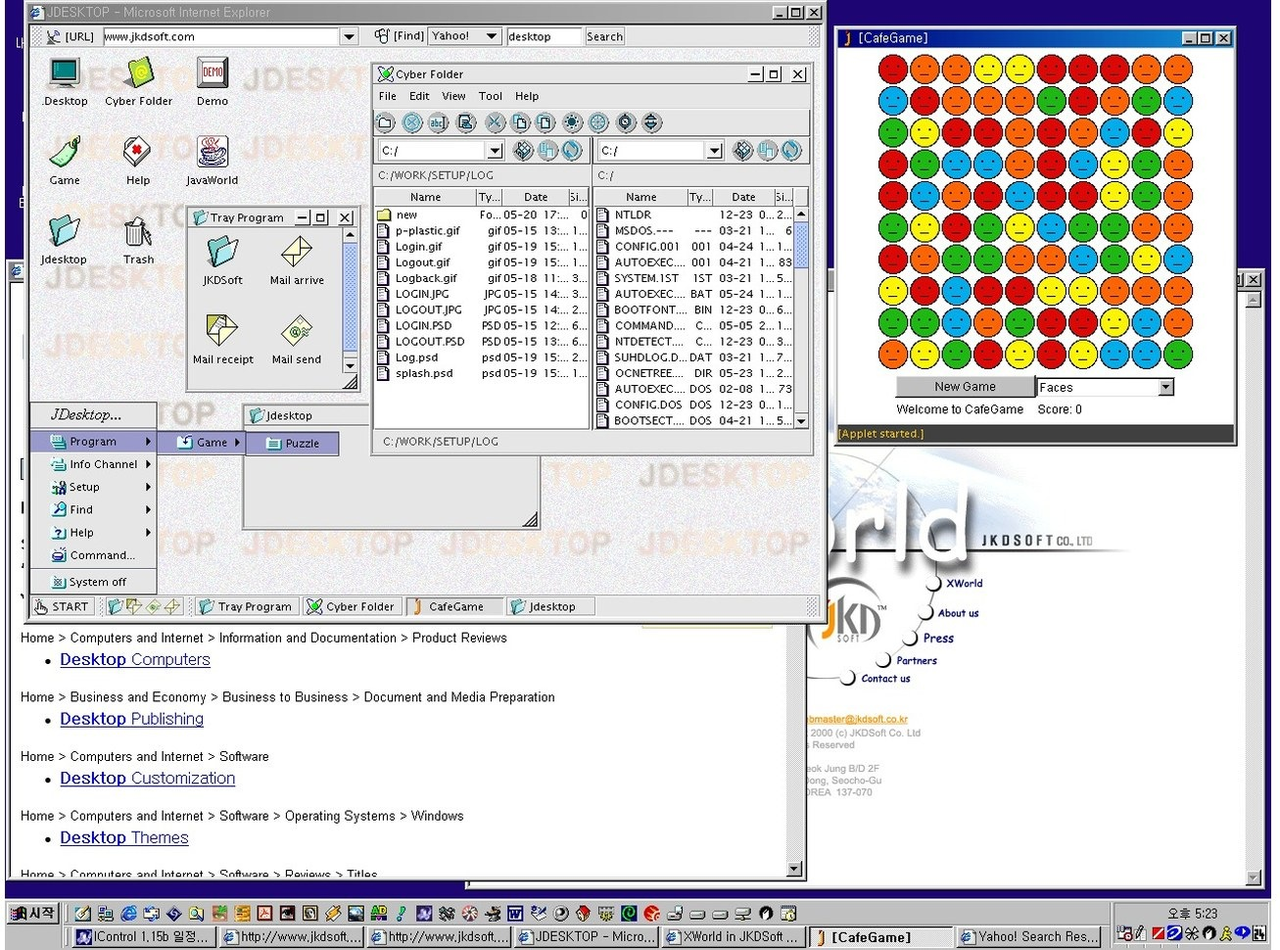
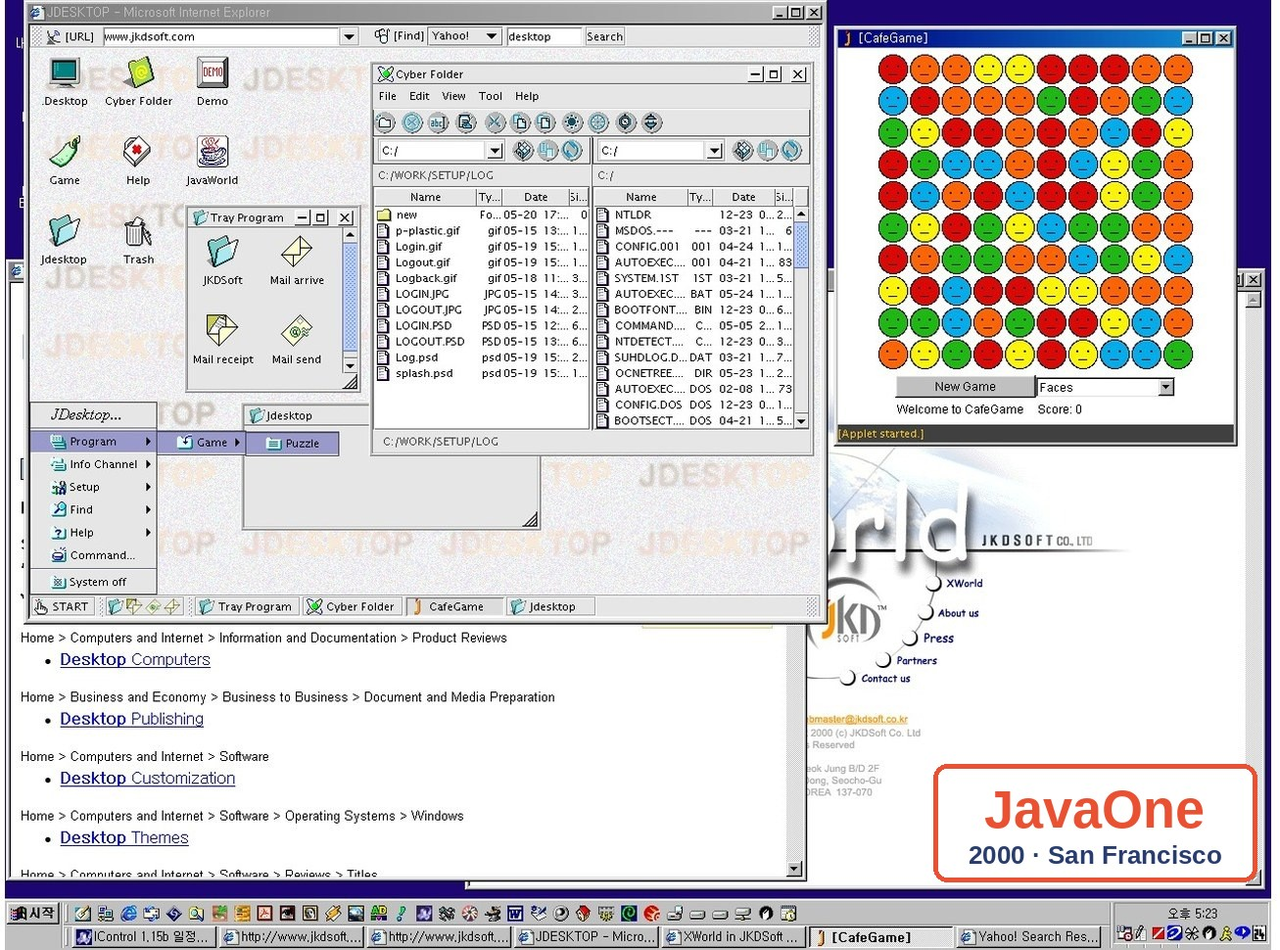
career: #001 JavaOne 표기 삽입
Claude-Session: https://claude.ai/code/session_012qSBL5TqsRWVrwA415UfBv

Changed region(s): [[0.7039, 0.8041, 1.0, 0.9278]]

diff --git a/ru/career.html b/ru/career.html
@@ -70,7 +70,7 @@ function natBox(t,tabs,sets,c){var b='<div class="igc" id="natb"><h3>'+t+'</h3><
 function lineC(t,n,d,c){var W=460,H=230,L=30,B=24,T=10,R=16,mx=0;d.forEach(function(s){s.forEach(function(v){if(v>mx)mx=v})});mx=Math.ceil(mx/20)*20;var X=function(i){return L+(W-L-R)*i/24},Y=function(v){return H-B-(H-B-T)*v/mx};var g='';for(var k=0;k<=4;k++){var v=mx*k/4;g+='<line x1="'+L+'" x2="'+(W-R)+'" y1="'+Y(v)+'" y2="'+Y(v)+'" stroke="#E6E8F0"/><text x="'+(L-4)+'" y="'+(Y(v)+3)+'" font-size="9" text-anchor="end" fill="#7A8099">'+v+'</text>'}for(var y=0;y<=24;y+=4)g+='<text x="'+X(y)+'" y="'+(H-8)+'" font-size="9" text-anchor="middle" fill="#7A8099">'+(2000+y)+'</text>';d.forEach(function(s,j){g+='<polyline fill="none" stroke="'+c[j]+'" stroke-width="2" points="'+s.map(function(v,i){return X(i)+','+Y(v)}).join(' ')+'"/>'});var lg=n.map(function(x,j){return '<span style="display:inline-flex;align-items:center;gap:4px;margin:0 10px 4px 0;font-size:12px"><i style="width:12px;height:3px;background:'+c[j]+';display:inline-block"></i>'+x+'</span>'}).join('');return '<div class="igc"><h3>'+t+'</h3><div>'+lg+'</div><svg viewBox="0 0 '+W+' '+H+'" style="width:100%;height:auto;display:block" role="img" aria-label="'+t+'">'+g+'</svg></div>'}
 document.getElementById('ig').innerHTML=bars(T.role,T.r,(function(){var h=function(a){return RO.filter(function(x){return a.some(function(k){return x.indexOf(RL[k])>=0})}).length};return [h([0,1]),h([6,7]),r[2],h([2,3]),h([4,5]),M.filter(function(m){return m[2]}).length+r[3]]})())+bars(T.cli,T.c,c)+bars(T.reg,T.g,g)+bars(T.per,yl,yc)+bars("2 029 проектов и задач с 2000 года · 50 698 рабочих документов · 629 ГБ",["Neighbor System (2008–2015)", "AWA, AKT, Elsol, SeAH, SGA, ANJ и др. (2015–2021)", "Donghae Engineering (2019–2020)", "ITeyes (2022)", "KCC I&C (2020–2021)", "Korea Firstec (2023–2024)","Next Core Technology (2023)", "Seowon Group (2024)", "2000–2007 (по послужному списку)"],[451, 200, 162, 117, 103, 62, 35, 4, 26])+lineC("Проекты и задачи по годам (2000–2024, по типу заказчика)",["Правительство", "Госорганизации", "Местные органы", "Частный сектор", "За рубежом"],[[0, 0, 0, 0, 0, 0, 0, 0, 13, 0, 0, 0, 0, 1, 1, 3, 0, 0, 3, 33, 7, 2, 5, 2, 60], [0, 0, 0, 0, 0, 0, 0, 0, 18, 3, 2, 12, 5, 2, 55, 1, 0, 0, 104, 55, 40, 11, 78, 34, 1], [0, 0, 0, 0, 0, 0, 0, 0, 29, 4, 7, 11, 6, 2, 0, 3, 0, 0, 41, 15, 49, 17, 8, 1, 0], [4, 5, 3, 1, 2, 5, 2, 2, 88, 30, 16, 74, 17, 1, 15, 40, 4, 1, 1, 12, 35, 5, 26, 0, 3], [0, 1, 0, 0, 0, 1, 0, 0, 0, 0, 0, 0, 0, 4, 7, 4, 0, 0, 0, 6, 1, 0, 0, 0, 0]],["#1B2A6B", "#2343D7", "#088CF5", "#7711FC", "#E0559A"])+natBox("Динамика по характеру (2000–2024)",["Заказчик", "Направление", "Роль"],[[["Частный сектор", "Госсектор", "Зарубежье"], [[4, 6, 5, 5, 3, 7, 5, 2, 5, 0, 0, 1, 7, 3, 1, 2, 3, 0, 0, 0, 0, 2, 2, 0, 0], [0, 0, 0, 0, 0, 0, 0, 0, 2, 3, 3, 6, 2, 7, 4, 1, 1, 0, 2, 4, 6, 5, 11, 1, 1], [1, 0, 0, 1, 1, 1, 1, 0, 0, 0, 0, 0, 2, 2, 2, 1, 0, 0, 0, 1, 1, 1, 0, 0, 0]]], [["Транспорт·ITS", "Здравоохранение", "Большие данные", "ИИ", "Умный город", "MyData", "Финансы"], [[0, 0, 0, 0, 0, 0, 0, 0, 1, 3, 3, 6, 3, 3, 2, 0, 0, 0, 0, 3, 4, 3, 0, 0, 0], [0, 0, 0, 0, 0, 0, 0, 0, 0, 0, 0, 0, 1, 0, 0, 0, 0, 0, 0, 0, 0, 2, 9, 0, 0], [0, 0, 0, 0, 0, 0, 0, 0, 0, 0, 0, 0, 1, 1, 2, 1, 0, 0, 0, 1, 2, 1, 3, 0, 0], [0, 0, 0, 0, 0, 0, 0, 0, 0, 0, 0, 0, 0, 0, 0, 0, 0, 0, 1, 2, 2, 1, 2, 0, 1], [0, 0, 0, 0, 0, 0, 0, 0, 0, 0, 0, 0, 1, 1, 1, 1, 1, 0, 0, 0, 1, 1, 0, 0, 0], [0, 0, 0, 0, 0, 0, 0, 0, 0, 0, 0, 0, 0, 0, 0, 0, 0, 0, 0, 0, 0, 0, 3, 0, 0], [0, 0, 0, 0, 0, 0, 0, 0, 1, 0, 0, 0, 0, 0, 0, 0, 0, 1, 0, 0, 0, 1, 0, 1, 0]]], [["Руководство", "Продажи", "PM·PMO", "PL", "Разработка/исполнение", "Предложение·планирование"], [[0, 0, 0, 0, 0, 0, 0, 0, 0, 0, 0, 1, 2, 1, 0, 0, 0, 0, 2, 4, 0, 0, 0, 0, 0], [0, 0, 0, 0, 0, 0, 0, 0, 0, 0, 0, 1, 4, 1, 0, 0, 0, 0, 1, 2, 0, 0, 0, 0, 0], [3, 3, 1, 1, 0, 1, 0, 0, 0, 1, 0, 1, 5, 2, 1, 1, 1, 0, 2, 4, 1, 1, 10, 0, 1], [0, 2, 2, 0, 1, 5, 2, 2, 4, 0, 2, 0, 1, 4, 2, 0, 1, 1, 0, 0, 0, 6, 3, 0, 0], [0, 0, 0, 0, 0, 0, 0, 0, 0, 1, 1, 0, 0, 2, 3, 0, 2, 1, 0, 0, 0, 0, 3, 0, 0], [3, 5, 3, 1, 1, 5, 2, 2, 7, 1, 0, 5, 5, 9, 1, 1, 0, 1, 1, 3, 2, 8, 10, 2, 0]]]],["#1B2A6B", "#2343D7", "#088CF5", "#7711FC", "#E0559A", "#2BB673", "#F2A900", "#9AA0B4"]);
 var PAL=[['#088CF5','#2343D7'],['#2343D7','#7711FC'],['#4A86DB','#9CC9EF'],['#7711FC','#088CF5']];
-var IMG=["p0", "n_nexco", "n_gjbank", "p3y", "n_gugusz", "n_cloud", "p1z", "n_kbizz", "p2b", "n_jinmoz", "b_bioz", "n_jibangz", "e_myd88", "e_kmc", "n_cjwz", "p85c", "n_uzbz", "b_kukdoz", "p82c", "n_gnitsz", "p80c", "p79c", "p5b", "p4z", "p76c", "p6z", "p7z", "p8z", "p9z", "p10", "p11z", "p12", "p13z", "p14b", "p66c", "p16", "p64c", "n_arvrz", "p17z", "e_sgis_svc", "e_sgis_menu", "n_mesz", "n_litz", "p19z", "n_lwtlbsz", "n_kogasz", "b_kacz", "b_flowz", "p20z", "n_hanle", "n_gitsz", "p49c", "p48c", "p24z", "n_gcrmz", "p45c", "p23z", "p22z", "p21z", "n_ssangz", "n_exjz", "n_bsgd", "n_nyjbisz", "p25z", "p36c", "e_gio35", "p26z", "e_wc33", "n_brtz", "p27z", "b_nbisz", "e_3d60z", "b_smoneyz", "b_cowayz", "b_ph3dz", "e_son25", "e_boomz", "e_pcs1z", "b_fota", "b_smsz", "e_pcs2b", "b_pmp", "b_homez", "b_cmz", "b_mmcz", "d_phone", "c_iso_m", "b_wooferz", "d_2g_ui", "b_printerz", "d_dv_ui", "b_nexioz", "d_stb_sk", "d_stb_arion", "e_tcoin6", "d_auctionz", "d_sec_gui", "e_hanc3", "d_search", "e_java1"];function art(i){if(IMG[i])return '<img class="art" src="/assets/img/proj/'+IMG[i]+'.jpg" alt="" loading="lazy" style="object-fit:cover;object-position:center top">';var p=PAL[i%4],s='',k;for(k=0;k<6;k++){var x=(i*37+k*53)%150,y=(i*29+k*31)%96,rr=10+(i*7+k*11)%26;s+='<circle cx="'+x+'" cy="'+y+'" r="'+rr+'" fill="none" stroke="#fff" stroke-opacity=".55" stroke-width="1.2"/>'}
+var IMG=["p0", "n_nexco", "n_gjbank", "p3y", "n_gugusz", "n_cloud", "p1z", "n_kbizz", "p2b", "n_jinmoz", "b_bioz", "n_jibangz", "e_myd88", "e_kmc", "n_cjwz", "p85c", "n_uzbz", "b_kukdoz", "p82c", "n_gnitsz", "p80c", "p79c", "p5b", "p4z", "p76c", "p6z", "p7z", "p8z", "p9z", "p10", "p11z", "p12", "p13z", "p14b", "p66c", "p16", "p64c", "n_arvrz", "p17z", "e_sgis_svc", "e_sgis_menu", "n_mesz", "n_litz", "p19z", "n_lwtlbsz", "n_kogasz", "b_kacz", "b_flowz", "p20z", "n_hanle", "n_gitsz", "p49c", "p48c", "p24z", "n_gcrmz", "p45c", "p23z", "p22z", "p21z", "n_ssangz", "n_exjz", "n_bsgd", "n_nyjbisz", "p25z", "p36c", "e_gio35", "p26z", "e_wc33", "n_brtz", "p27z", "b_nbisz", "e_3d60z", "b_smoneyz", "b_cowayz", "b_ph3dz", "e_son25", "e_boomz", "e_pcs1z", "b_fota", "b_smsz", "e_pcs2b", "b_pmp", "b_homez", "b_cmz", "b_mmcz", "d_phone", "c_iso_m", "b_wooferz", "d_2g_ui", "b_printerz", "d_dv_ui", "b_nexioz", "d_stb_sk", "d_stb_arion", "e_tcoin6", "d_auctionz", "d_sec_gui", "e_hanc3", "d_search", "p1c"];function art(i){if(IMG[i])return '<img class="art" src="/assets/img/proj/'+IMG[i]+'.jpg" alt="" loading="lazy" style="object-fit:cover;object-position:center top">';var p=PAL[i%4],s='',k;for(k=0;k<6;k++){var x=(i*37+k*53)%150,y=(i*29+k*31)%96,rr=10+(i*7+k*11)%26;s+='<circle cx="'+x+'" cy="'+y+'" r="'+rr+'" fill="none" stroke="#fff" stroke-opacity=".55" stroke-width="1.2"/>'}
 for(k=0;k<4;k++){s+='<line x1="0" y1="'+(18+k*20)+'" x2="150" y2="'+(10+((i+k)*17)%80)+'" stroke="#fff" stroke-opacity=".3"/>'}
 return '<svg class="art" viewBox="0 0 150 96" aria-hidden="true"><defs><linearGradient id="g'+i+'" x1="0" y1="0" x2="1" y2="1"><stop offset="0" stop-color="'+p[0]+'"/><stop offset="1" stop-color="'+p[1]+'"/></linearGradient></defs><rect width="150" height="96" fill="url(#g'+i+')"/>'+s+'</svg>'}
 var HL=Array.prototype.slice.call(document.querySelectorAll('#ft .fc'));var mini=[];

diff --git a/career.html b/career.html
@@ -70,7 +70,7 @@ function natBox(t,tabs,sets,c){var b='<div class="igc" id="natb"><h3>'+t+'</h3><
 function lineC(t,n,d,c){var W=460,H=230,L=30,B=24,T=10,R=16,mx=0;d.forEach(function(s){s.forEach(function(v){if(v>mx)mx=v})});mx=Math.ceil(mx/20)*20;var X=function(i){return L+(W-L-R)*i/24},Y=function(v){return H-B-(H-B-T)*v/mx};var g='';for(var k=0;k<=4;k++){var v=mx*k/4;g+='<line x1="'+L+'" x2="'+(W-R)+'" y1="'+Y(v)+'" y2="'+Y(v)+'" stroke="#E6E8F0"/><text x="'+(L-4)+'" y="'+(Y(v)+3)+'" font-size="9" text-anchor="end" fill="#7A8099">'+v+'</text>'}for(var y=0;y<=24;y+=4)g+='<text x="'+X(y)+'" y="'+(H-8)+'" font-size="9" text-anchor="middle" fill="#7A8099">'+(2000+y)+'</text>';d.forEach(function(s,j){g+='<polyline fill="none" stroke="'+c[j]+'" stroke-width="2" points="'+s.map(function(v,i){return X(i)+','+Y(v)}).join(' ')+'"/>'});var lg=n.map(function(x,j){return '<span style="display:inline-flex;align-items:center;gap:4px;margin:0 10px 4px 0;font-size:12px"><i style="width:12px;height:3px;background:'+c[j]+';display:inline-block"></i>'+x+'</span>'}).join('');return '<div class="igc"><h3>'+t+'</h3><div>'+lg+'</div><svg viewBox="0 0 '+W+' '+H+'" style="width:100%;height:auto;display:block" role="img" aria-label="'+t+'">'+g+'</svg></div>'}
 document.getElementById('ig').innerHTML=bars(T.role,T.r,(function(){var h=function(a){return RO.filter(function(x){return a.some(function(k){return x.indexOf(RL[k])>=0})}).length};return [h([0,1]),h([6,7]),r[2],h([2,3]),h([4,5]),M.filter(function(m){return m[2]}).length+r[3]]})())+bars(T.cli,T.c,c)+bars(T.reg,T.g,g)+bars(T.per,yl,yc)+bars("2000년 이후 수행·참여 사업·과업 2,029건 · 업무 문서 50,698개 · 자료 629GB",["네이버시스템(2008–2015)", "AWA·AKT·엘솔·세아·SGA·ANJ 외(2015–2021)", "동해종합기술공사(2019–2020)", "아이티아이즈(2022)", "KCC정보통신(2020–2021)", "코리아퍼스텍(2023–2024)","넥스트코어테크놀로지(2023)", "서원그룹(2024)", "2000–2007(경력기술서 기준)"],[451, 200, 162, 117, 103, 62, 35, 4, 26])+lineC("연도별 사업·과업 추이(2000–2024, 발주 대상별)",["정부", "공공기관", "지자체", "민간", "해외"],[[0, 0, 0, 0, 0, 0, 0, 0, 13, 0, 0, 0, 0, 1, 1, 3, 0, 0, 3, 33, 7, 2, 5, 2, 60], [0, 0, 0, 0, 0, 0, 0, 0, 18, 3, 2, 12, 5, 2, 55, 1, 0, 0, 104, 55, 40, 11, 78, 34, 1], [0, 0, 0, 0, 0, 0, 0, 0, 29, 4, 7, 11, 6, 2, 0, 3, 0, 0, 41, 15, 49, 17, 8, 1, 0], [4, 5, 3, 1, 2, 5, 2, 2, 88, 30, 16, 74, 17, 1, 15, 40, 4, 1, 1, 12, 35, 5, 26, 0, 3], [0, 1, 0, 0, 0, 1, 0, 0, 0, 0, 0, 0, 0, 4, 7, 4, 0, 0, 0, 6, 1, 0, 0, 0, 0]],["#1B2A6B", "#2343D7", "#088CF5", "#7711FC", "#E0559A"])+natBox("성격별 연도 추이(2000–2024)",["대상", "분야", "역할"],[[["민간", "공공", "해외"], [[4, 6, 5, 5, 3, 7, 5, 2, 5, 0, 0, 1, 7, 3, 1, 2, 3, 0, 0, 0, 0, 2, 2, 0, 0], [0, 0, 0, 0, 0, 0, 0, 0, 2, 3, 3, 6, 2, 7, 4, 1, 1, 0, 2, 4, 6, 5, 11, 1, 1], [1, 0, 0, 1, 1, 1, 1, 0, 0, 0, 0, 0, 2, 2, 2, 1, 0, 0, 0, 1, 1, 1, 0, 0, 0]]], [["교통·ITS", "의료", "빅데이터", "AI", "스마트시티", "마이데이터", "금융"], [[0, 0, 0, 0, 0, 0, 0, 0, 1, 3, 3, 6, 3, 3, 2, 0, 0, 0, 0, 3, 4, 3, 0, 0, 0], [0, 0, 0, 0, 0, 0, 0, 0, 0, 0, 0, 0, 1, 0, 0, 0, 0, 0, 0, 0, 0, 2, 9, 0, 0], [0, 0, 0, 0, 0, 0, 0, 0, 0, 0, 0, 0, 1, 1, 2, 1, 0, 0, 0, 1, 2, 1, 3, 0, 0], [0, 0, 0, 0, 0, 0, 0, 0, 0, 0, 0, 0, 0, 0, 0, 0, 0, 0, 1, 2, 2, 1, 2, 0, 1], [0, 0, 0, 0, 0, 0, 0, 0, 0, 0, 0, 0, 1, 1, 1, 1, 1, 0, 0, 0, 1, 1, 0, 0, 0], [0, 0, 0, 0, 0, 0, 0, 0, 0, 0, 0, 0, 0, 0, 0, 0, 0, 0, 0, 0, 0, 0, 3, 0, 0], [0, 0, 0, 0, 0, 0, 0, 0, 1, 0, 0, 0, 0, 0, 0, 0, 0, 1, 0, 0, 0, 1, 0, 1, 0]]], [["사업총괄", "영업", "PM·PMO", "PL", "개발/수행", "제안·기획"], [[0, 0, 0, 0, 0, 0, 0, 0, 0, 0, 0, 1, 2, 1, 0, 0, 0, 0, 2, 4, 0, 0, 0, 0, 0], [0, 0, 0, 0, 0, 0, 0, 0, 0, 0, 0, 1, 4, 1, 0, 0, 0, 0, 1, 2, 0, 0, 0, 0, 0], [3, 3, 1, 1, 0, 1, 0, 0, 0, 1, 0, 1, 5, 2, 1, 1, 1, 0, 2, 4, 1, 1, 10, 0, 1], [0, 2, 2, 0, 1, 5, 2, 2, 4, 0, 2, 0, 1, 4, 2, 0, 1, 1, 0, 0, 0, 6, 3, 0, 0], [0, 0, 0, 0, 0, 0, 0, 0, 0, 1, 1, 0, 0, 2, 3, 0, 2, 1, 0, 0, 0, 0, 3, 0, 0], [3, 5, 3, 1, 1, 5, 2, 2, 7, 1, 0, 5, 5, 9, 1, 1, 0, 1, 1, 3, 2, 8, 10, 2, 0]]]],["#1B2A6B", "#2343D7", "#088CF5", "#7711FC", "#E0559A", "#2BB673", "#F2A900", "#9AA0B4"]);
 var PAL=[['#088CF5','#2343D7'],['#2343D7','#7711FC'],['#4A86DB','#9CC9EF'],['#7711FC','#088CF5']];
-var IMG=["p0", "n_nexco", "n_gjbank", "p3y", "n_gugusz", "n_cloud", "p1z", "n_kbizz", "p2b", "n_jinmoz", "b_bioz", "n_jibangz", "e_myd88", "e_kmc", "n_cjwz", "p85c", "n_uzbz", "b_kukdoz", "p82c", "n_gnitsz", "p80c", "p79c", "p5b", "p4z", "p76c", "p6z", "p7z", "p8z", "p9z", "p10", "p11z", "p12", "p13z", "p14b", "p66c", "p16", "p64c", "n_arvrz", "p17z", "e_sgis_svc", "e_sgis_menu", "n_mesz", "n_litz", "p19z", "n_lwtlbsz", "n_kogasz", "b_kacz", "b_flowz", "p20z", "n_hanle", "n_gitsz", "p49c", "p48c", "p24z", "n_gcrmz", "p45c", "p23z", "p22z", "p21z", "n_ssangz", "n_exjz", "n_bsgd", "n_nyjbisz", "p25z", "p36c", "e_gio35", "p26z", "e_wc33", "n_brtz", "p27z", "b_nbisz", "e_3d60z", "b_smoneyz", "b_cowayz", "b_ph3dz", "e_son25", "e_boomz", "e_pcs1z", "b_fota", "b_smsz", "e_pcs2b", "b_pmp", "b_homez", "b_cmz", "b_mmcz", "d_phone", "c_iso_m", "b_wooferz", "d_2g_ui", "b_printerz", "d_dv_ui", "b_nexioz", "d_stb_sk", "d_stb_arion", "e_tcoin6", "d_auctionz", "d_sec_gui", "e_hanc3", "d_search", "e_java1"];function art(i){if(IMG[i])return '<img class="art" src="/assets/img/proj/'+IMG[i]+'.jpg" alt="" loading="lazy" style="object-fit:cover;object-position:center top">';var p=PAL[i%4],s='',k;for(k=0;k<6;k++){var x=(i*37+k*53)%150,y=(i*29+k*31)%96,rr=10+(i*7+k*11)%26;s+='<circle cx="'+x+'" cy="'+y+'" r="'+rr+'" fill="none" stroke="#fff" stroke-opacity=".55" stroke-width="1.2"/>'}
+var IMG=["p0", "n_nexco", "n_gjbank", "p3y", "n_gugusz", "n_cloud", "p1z", "n_kbizz", "p2b", "n_jinmoz", "b_bioz", "n_jibangz", "e_myd88", "e_kmc", "n_cjwz", "p85c", "n_uzbz", "b_kukdoz", "p82c", "n_gnitsz", "p80c", "p79c", "p5b", "p4z", "p76c", "p6z", "p7z", "p8z", "p9z", "p10", "p11z", "p12", "p13z", "p14b", "p66c", "p16", "p64c", "n_arvrz", "p17z", "e_sgis_svc", "e_sgis_menu", "n_mesz", "n_litz", "p19z", "n_lwtlbsz", "n_kogasz", "b_kacz", "b_flowz", "p20z", "n_hanle", "n_gitsz", "p49c", "p48c", "p24z", "n_gcrmz", "p45c", "p23z", "p22z", "p21z", "n_ssangz", "n_exjz", "n_bsgd", "n_nyjbisz", "p25z", "p36c", "e_gio35", "p26z", "e_wc33", "n_brtz", "p27z", "b_nbisz", "e_3d60z", "b_smoneyz", "b_cowayz", "b_ph3dz", "e_son25", "e_boomz", "e_pcs1z", "b_fota", "b_smsz", "e_pcs2b", "b_pmp", "b_homez", "b_cmz", "b_mmcz", "d_phone", "c_iso_m", "b_wooferz", "d_2g_ui", "b_printerz", "d_dv_ui", "b_nexioz", "d_stb_sk", "d_stb_arion", "e_tcoin6", "d_auctionz", "d_sec_gui", "e_hanc3", "d_search", "p1c"];function art(i){if(IMG[i])return '<img class="art" src="/assets/img/proj/'+IMG[i]+'.jpg" alt="" loading="lazy" style="object-fit:cover;object-position:center top">';var p=PAL[i%4],s='',k;for(k=0;k<6;k++){var x=(i*37+k*53)%150,y=(i*29+k*31)%96,rr=10+(i*7+k*11)%26;s+='<circle cx="'+x+'" cy="'+y+'" r="'+rr+'" fill="none" stroke="#fff" stroke-opacity=".55" stroke-width="1.2"/>'}
 for(k=0;k<4;k++){s+='<line x1="0" y1="'+(18+k*20)+'" x2="150" y2="'+(10+((i+k)*17)%80)+'" stroke="#fff" stroke-opacity=".3"/>'}
 return '<svg class="art" viewBox="0 0 150 96" aria-hidden="true"><defs><linearGradient id="g'+i+'" x1="0" y1="0" x2="1" y2="1"><stop offset="0" stop-color="'+p[0]+'"/><stop offset="1" stop-color="'+p[1]+'"/></linearGradient></defs><rect width="150" height="96" fill="url(#g'+i+')"/>'+s+'</svg>'}
 var HL=Array.prototype.slice.call(document.querySelectorAll('#ft .fc'));var mini=[];

diff --git a/ja/career.html b/ja/career.html
@@ -70,7 +70,7 @@ function natBox(t,tabs,sets,c){var b='<div class="igc" id="natb"><h3>'+t+'</h3><
 function lineC(t,n,d,c){var W=460,H=230,L=30,B=24,T=10,R=16,mx=0;d.forEach(function(s){s.forEach(function(v){if(v>mx)mx=v})});mx=Math.ceil(mx/20)*20;var X=function(i){return L+(W-L-R)*i/24},Y=function(v){return H-B-(H-B-T)*v/mx};var g='';for(var k=0;k<=4;k++){var v=mx*k/4;g+='<line x1="'+L+'" x2="'+(W-R)+'" y1="'+Y(v)+'" y2="'+Y(v)+'" stroke="#E6E8F0"/><text x="'+(L-4)+'" y="'+(Y(v)+3)+'" font-size="9" text-anchor="end" fill="#7A8099">'+v+'</text>'}for(var y=0;y<=24;y+=4)g+='<text x="'+X(y)+'" y="'+(H-8)+'" font-size="9" text-anchor="middle" fill="#7A8099">'+(2000+y)+'</text>';d.forEach(function(s,j){g+='<polyline fill="none" stroke="'+c[j]+'" stroke-width="2" points="'+s.map(function(v,i){return X(i)+','+Y(v)}).join(' ')+'"/>'});var lg=n.map(function(x,j){return '<span style="display:inline-flex;align-items:center;gap:4px;margin:0 10px 4px 0;font-size:12px"><i style="width:12px;height:3px;background:'+c[j]+';display:inline-block"></i>'+x+'</span>'}).join('');return '<div class="igc"><h3>'+t+'</h3><div>'+lg+'</div><svg viewBox="0 0 '+W+' '+H+'" style="width:100%;height:auto;display:block" role="img" aria-label="'+t+'">'+g+'</svg></div>'}
 document.getElementById('ig').innerHTML=bars(T.role,T.r,(function(){var h=function(a){return RO.filter(function(x){return a.some(function(k){return x.indexOf(RL[k])>=0})}).length};return [h([0,1]),h([6,7]),r[2],h([2,3]),h([4,5]),M.filter(function(m){return m[2]}).length+r[3]]})())+bars(T.cli,T.c,c)+bars(T.reg,T.g,g)+bars(T.per,yl,yc)+bars("2000年以降の遂行・参加事業・タスク2,029件 · 業務文書50,698件 · 資料629GB",["Neighbor System(2008–2015)", "AWA・AKT・Elsol・SeAH・SGA・ANJ ほか(2015–2021)", "東海総合技術公社(2019–2020)", "ITeyes(2022)", "KCC情報通信(2020–2021)", "Korea Firstec(2023–2024)","Next Core Technology(2023)", "瑞源グループ(2024)", "2000–2007(職務経歴書基準)"],[451, 200, 162, 117, 103, 62, 35, 4, 26])+lineC("年度別 事業・タスク推移(2000–2024、発注先別)",["政府", "公共機関", "自治体", "民間", "海外"],[[0, 0, 0, 0, 0, 0, 0, 0, 13, 0, 0, 0, 0, 1, 1, 3, 0, 0, 3, 33, 7, 2, 5, 2, 60], [0, 0, 0, 0, 0, 0, 0, 0, 18, 3, 2, 12, 5, 2, 55, 1, 0, 0, 104, 55, 40, 11, 78, 34, 1], [0, 0, 0, 0, 0, 0, 0, 0, 29, 4, 7, 11, 6, 2, 0, 3, 0, 0, 41, 15, 49, 17, 8, 1, 0], [4, 5, 3, 1, 2, 5, 2, 2, 88, 30, 16, 74, 17, 1, 15, 40, 4, 1, 1, 12, 35, 5, 26, 0, 3], [0, 1, 0, 0, 0, 1, 0, 0, 0, 0, 0, 0, 0, 4, 7, 4, 0, 0, 0, 6, 1, 0, 0, 0, 0]],["#1B2A6B", "#2343D7", "#088CF5", "#7711FC", "#E0559A"])+natBox("性格別 年度推移(2000–2024)",["対象", "分野", "役割"],[[["民間", "公共", "海外"], [[4, 6, 5, 5, 3, 7, 5, 2, 5, 0, 0, 1, 7, 3, 1, 2, 3, 0, 0, 0, 0, 2, 2, 0, 0], [0, 0, 0, 0, 0, 0, 0, 0, 2, 3, 3, 6, 2, 7, 4, 1, 1, 0, 2, 4, 6, 5, 11, 1, 1], [1, 0, 0, 1, 1, 1, 1, 0, 0, 0, 0, 0, 2, 2, 2, 1, 0, 0, 0, 1, 1, 1, 0, 0, 0]]], [["交通·ITS", "医療", "ビッグデータ", "AI", "スマートシティ", "マイデータ", "金融"], [[0, 0, 0, 0, 0, 0, 0, 0, 1, 3, 3, 6, 3, 3, 2, 0, 0, 0, 0, 3, 4, 3, 0, 0, 0], [0, 0, 0, 0, 0, 0, 0, 0, 0, 0, 0, 0, 1, 0, 0, 0, 0, 0, 0, 0, 0, 2, 9, 0, 0], [0, 0, 0, 0, 0, 0, 0, 0, 0, 0, 0, 0, 1, 1, 2, 1, 0, 0, 0, 1, 2, 1, 3, 0, 0], [0, 0, 0, 0, 0, 0, 0, 0, 0, 0, 0, 0, 0, 0, 0, 0, 0, 0, 1, 2, 2, 1, 2, 0, 1], [0, 0, 0, 0, 0, 0, 0, 0, 0, 0, 0, 0, 1, 1, 1, 1, 1, 0, 0, 0, 1, 1, 0, 0, 0], [0, 0, 0, 0, 0, 0, 0, 0, 0, 0, 0, 0, 0, 0, 0, 0, 0, 0, 0, 0, 0, 0, 3, 0, 0], [0, 0, 0, 0, 0, 0, 0, 0, 1, 0, 0, 0, 0, 0, 0, 0, 0, 1, 0, 0, 0, 1, 0, 1, 0]]], [["事業統括", "営業", "PM·PMO", "PL", "開発/遂行", "提案·企画"], [[0, 0, 0, 0, 0, 0, 0, 0, 0, 0, 0, 1, 2, 1, 0, 0, 0, 0, 2, 4, 0, 0, 0, 0, 0], [0, 0, 0, 0, 0, 0, 0, 0, 0, 0, 0, 1, 4, 1, 0, 0, 0, 0, 1, 2, 0, 0, 0, 0, 0], [3, 3, 1, 1, 0, 1, 0, 0, 0, 1, 0, 1, 5, 2, 1, 1, 1, 0, 2, 4, 1, 1, 10, 0, 1], [0, 2, 2, 0, 1, 5, 2, 2, 4, 0, 2, 0, 1, 4, 2, 0, 1, 1, 0, 0, 0, 6, 3, 0, 0], [0, 0, 0, 0, 0, 0, 0, 0, 0, 1, 1, 0, 0, 2, 3, 0, 2, 1, 0, 0, 0, 0, 3, 0, 0], [3, 5, 3, 1, 1, 5, 2, 2, 7, 1, 0, 5, 5, 9, 1, 1, 0, 1, 1, 3, 2, 8, 10, 2, 0]]]],["#1B2A6B", "#2343D7", "#088CF5", "#7711FC", "#E0559A", "#2BB673", "#F2A900", "#9AA0B4"]);
 var PAL=[['#088CF5','#2343D7'],['#2343D7','#7711FC'],['#4A86DB','#9CC9EF'],['#7711FC','#088CF5']];
-var IMG=["p0", "n_nexco", "n_gjbank", "p3y", "n_gugusz", "n_cloud", "p1z", "n_kbizz", "p2b", "n_jinmoz", "b_bioz", "n_jibangz", "e_myd88", "e_kmc", "n_cjwz", "p85c", "n_uzbz", "b_kukdoz", "p82c", "n_gnitsz", "p80c", "p79c", "p5b", "p4z", "p76c", "p6z", "p7z", "p8z", "p9z", "p10", "p11z", "p12", "p13z", "p14b", "p66c", "p16", "p64c", "n_arvrz", "p17z", "e_sgis_svc", "e_sgis_menu", "n_mesz", "n_litz", "p19z", "n_lwtlbsz", "n_kogasz", "b_kacz", "b_flowz", "p20z", "n_hanle", "n_gitsz", "p49c", "p48c", "p24z", "n_gcrmz", "p45c", "p23z", "p22z", "p21z", "n_ssangz", "n_exjz", "n_bsgd", "n_nyjbisz", "p25z", "p36c", "e_gio35", "p26z", "e_wc33", "n_brtz", "p27z", "b_nbisz", "e_3d60z", "b_smoneyz", "b_cowayz", "b_ph3dz", "e_son25", "e_boomz", "e_pcs1z", "b_fota", "b_smsz", "e_pcs2b", "b_pmp", "b_homez", "b_cmz", "b_mmcz", "d_phone", "c_iso_m", "b_wooferz", "d_2g_ui", "b_printerz", "d_dv_ui", "b_nexioz", "d_stb_sk", "d_stb_arion", "e_tcoin6", "d_auctionz", "d_sec_gui", "e_hanc3", "d_search", "e_java1"];function art(i){if(IMG[i])return '<img class="art" src="/assets/img/proj/'+IMG[i]+'.jpg" alt="" loading="lazy" style="object-fit:cover;object-position:center top">';var p=PAL[i%4],s='',k;for(k=0;k<6;k++){var x=(i*37+k*53)%150,y=(i*29+k*31)%96,rr=10+(i*7+k*11)%26;s+='<circle cx="'+x+'" cy="'+y+'" r="'+rr+'" fill="none" stroke="#fff" stroke-opacity=".55" stroke-width="1.2"/>'}
+var IMG=["p0", "n_nexco", "n_gjbank", "p3y", "n_gugusz", "n_cloud", "p1z", "n_kbizz", "p2b", "n_jinmoz", "b_bioz", "n_jibangz", "e_myd88", "e_kmc", "n_cjwz", "p85c", "n_uzbz", "b_kukdoz", "p82c", "n_gnitsz", "p80c", "p79c", "p5b", "p4z", "p76c", "p6z", "p7z", "p8z", "p9z", "p10", "p11z", "p12", "p13z", "p14b", "p66c", "p16", "p64c", "n_arvrz", "p17z", "e_sgis_svc", "e_sgis_menu", "n_mesz", "n_litz", "p19z", "n_lwtlbsz", "n_kogasz", "b_kacz", "b_flowz", "p20z", "n_hanle", "n_gitsz", "p49c", "p48c", "p24z", "n_gcrmz", "p45c", "p23z", "p22z", "p21z", "n_ssangz", "n_exjz", "n_bsgd", "n_nyjbisz", "p25z", "p36c", "e_gio35", "p26z", "e_wc33", "n_brtz", "p27z", "b_nbisz", "e_3d60z", "b_smoneyz", "b_cowayz", "b_ph3dz", "e_son25", "e_boomz", "e_pcs1z", "b_fota", "b_smsz", "e_pcs2b", "b_pmp", "b_homez", "b_cmz", "b_mmcz", "d_phone", "c_iso_m", "b_wooferz", "d_2g_ui", "b_printerz", "d_dv_ui", "b_nexioz", "d_stb_sk", "d_stb_arion", "e_tcoin6", "d_auctionz", "d_sec_gui", "e_hanc3", "d_search", "p1c"];function art(i){if(IMG[i])return '<img class="art" src="/assets/img/proj/'+IMG[i]+'.jpg" alt="" loading="lazy" style="object-fit:cover;object-position:center top">';var p=PAL[i%4],s='',k;for(k=0;k<6;k++){var x=(i*37+k*53)%150,y=(i*29+k*31)%96,rr=10+(i*7+k*11)%26;s+='<circle cx="'+x+'" cy="'+y+'" r="'+rr+'" fill="none" stroke="#fff" stroke-opacity=".55" stroke-width="1.2"/>'}
 for(k=0;k<4;k++){s+='<line x1="0" y1="'+(18+k*20)+'" x2="150" y2="'+(10+((i+k)*17)%80)+'" stroke="#fff" stroke-opacity=".3"/>'}
 return '<svg class="art" viewBox="0 0 150 96" aria-hidden="true"><defs><linearGradient id="g'+i+'" x1="0" y1="0" x2="1" y2="1"><stop offset="0" stop-color="'+p[0]+'"/><stop offset="1" stop-color="'+p[1]+'"/></linearGradient></defs><rect width="150" height="96" fill="url(#g'+i+')"/>'+s+'</svg>'}
 var HL=Array.prototype.slice.call(document.querySelectorAll('#ft .fc'));var mini=[];

diff --git a/en/career.html b/en/career.html
@@ -70,7 +70,7 @@ function natBox(t,tabs,sets,c){var b='<div class="igc" id="natb"><h3>'+t+'</h3><
 function lineC(t,n,d,c){var W=460,H=230,L=30,B=24,T=10,R=16,mx=0;d.forEach(function(s){s.forEach(function(v){if(v>mx)mx=v})});mx=Math.ceil(mx/20)*20;var X=function(i){return L+(W-L-R)*i/24},Y=function(v){return H-B-(H-B-T)*v/mx};var g='';for(var k=0;k<=4;k++){var v=mx*k/4;g+='<line x1="'+L+'" x2="'+(W-R)+'" y1="'+Y(v)+'" y2="'+Y(v)+'" stroke="#E6E8F0"/><text x="'+(L-4)+'" y="'+(Y(v)+3)+'" font-size="9" text-anchor="end" fill="#7A8099">'+v+'</text>'}for(var y=0;y<=24;y+=4)g+='<text x="'+X(y)+'" y="'+(H-8)+'" font-size="9" text-anchor="middle" fill="#7A8099">'+(2000+y)+'</text>';d.forEach(function(s,j){g+='<polyline fill="none" stroke="'+c[j]+'" stroke-width="2" points="'+s.map(function(v,i){return X(i)+','+Y(v)}).join(' ')+'"/>'});var lg=n.map(function(x,j){return '<span style="display:inline-flex;align-items:center;gap:4px;margin:0 10px 4px 0;font-size:12px"><i style="width:12px;height:3px;background:'+c[j]+';display:inline-block"></i>'+x+'</span>'}).join('');return '<div class="igc"><h3>'+t+'</h3><div>'+lg+'</div><svg viewBox="0 0 '+W+' '+H+'" style="width:100%;height:auto;display:block" role="img" aria-label="'+t+'">'+g+'</svg></div>'}
 document.getElementById('ig').innerHTML=bars(T.role,T.r,(function(){var h=function(a){return RO.filter(function(x){return a.some(function(k){return x.indexOf(RL[k])>=0})}).length};return [h([0,1]),h([6,7]),r[2],h([2,3]),h([4,5]),M.filter(function(m){return m[2]}).length+r[3]]})())+bars(T.cli,T.c,c)+bars(T.reg,T.g,g)+bars(T.per,yl,yc)+bars("2,029 projects & tasks since 2000 · 50,698 work documents · 629 GB",["Neighbor System (2008–2015)", "AWA, AKT, Elsol, SeAH, SGA, ANJ, etc. (2015–2021)", "Donghae Engineering (2019–2020)", "ITeyes (2022)", "KCC I&C (2020–2021)", "Korea Firstec (2023–2024)","Next Core Technology (2023)", "Seowon Group (2024)", "2000–2007 (per career record)"],[451, 200, 162, 117, 103, 62, 35, 4, 26])+lineC("Projects & tasks by year (2000–2024, by client type)",["Government", "Public agencies", "Local governments", "Private", "Overseas"],[[0, 0, 0, 0, 0, 0, 0, 0, 13, 0, 0, 0, 0, 1, 1, 3, 0, 0, 3, 33, 7, 2, 5, 2, 60], [0, 0, 0, 0, 0, 0, 0, 0, 18, 3, 2, 12, 5, 2, 55, 1, 0, 0, 104, 55, 40, 11, 78, 34, 1], [0, 0, 0, 0, 0, 0, 0, 0, 29, 4, 7, 11, 6, 2, 0, 3, 0, 0, 41, 15, 49, 17, 8, 1, 0], [4, 5, 3, 1, 2, 5, 2, 2, 88, 30, 16, 74, 17, 1, 15, 40, 4, 1, 1, 12, 35, 5, 26, 0, 3], [0, 1, 0, 0, 0, 1, 0, 0, 0, 0, 0, 0, 0, 4, 7, 4, 0, 0, 0, 6, 1, 0, 0, 0, 0]],["#1B2A6B", "#2343D7", "#088CF5", "#7711FC", "#E0559A"])+natBox("Trend by nature (2000–2024)",["Client", "Field", "Role"],[[["Private", "Public", "Overseas"], [[4, 6, 5, 5, 3, 7, 5, 2, 5, 0, 0, 1, 7, 3, 1, 2, 3, 0, 0, 0, 0, 2, 2, 0, 0], [0, 0, 0, 0, 0, 0, 0, 0, 2, 3, 3, 6, 2, 7, 4, 1, 1, 0, 2, 4, 6, 5, 11, 1, 1], [1, 0, 0, 1, 1, 1, 1, 0, 0, 0, 0, 0, 2, 2, 2, 1, 0, 0, 0, 1, 1, 1, 0, 0, 0]]], [["Transport·ITS", "Healthcare", "Big data", "AI", "Smart city", "MyData", "Finance"], [[0, 0, 0, 0, 0, 0, 0, 0, 1, 3, 3, 6, 3, 3, 2, 0, 0, 0, 0, 3, 4, 3, 0, 0, 0], [0, 0, 0, 0, 0, 0, 0, 0, 0, 0, 0, 0, 1, 0, 0, 0, 0, 0, 0, 0, 0, 2, 9, 0, 0], [0, 0, 0, 0, 0, 0, 0, 0, 0, 0, 0, 0, 1, 1, 2, 1, 0, 0, 0, 1, 2, 1, 3, 0, 0], [0, 0, 0, 0, 0, 0, 0, 0, 0, 0, 0, 0, 0, 0, 0, 0, 0, 0, 1, 2, 2, 1, 2, 0, 1], [0, 0, 0, 0, 0, 0, 0, 0, 0, 0, 0, 0, 1, 1, 1, 1, 1, 0, 0, 0, 1, 1, 0, 0, 0], [0, 0, 0, 0, 0, 0, 0, 0, 0, 0, 0, 0, 0, 0, 0, 0, 0, 0, 0, 0, 0, 0, 3, 0, 0], [0, 0, 0, 0, 0, 0, 0, 0, 1, 0, 0, 0, 0, 0, 0, 0, 0, 1, 0, 0, 0, 1, 0, 1, 0]]], [["Program Lead", "Sales", "PM·PMO", "PL", "Development/delivery", "Proposal·Planning"], [[0, 0, 0, 0, 0, 0, 0, 0, 0, 0, 0, 1, 2, 1, 0, 0, 0, 0, 2, 4, 0, 0, 0, 0, 0], [0, 0, 0, 0, 0, 0, 0, 0, 0, 0, 0, 1, 4, 1, 0, 0, 0, 0, 1, 2, 0, 0, 0, 0, 0], [3, 3, 1, 1, 0, 1, 0, 0, 0, 1, 0, 1, 5, 2, 1, 1, 1, 0, 2, 4, 1, 1, 10, 0, 1], [0, 2, 2, 0, 1, 5, 2, 2, 4, 0, 2, 0, 1, 4, 2, 0, 1, 1, 0, 0, 0, 6, 3, 0, 0], [0, 0, 0, 0, 0, 0, 0, 0, 0, 1, 1, 0, 0, 2, 3, 0, 2, 1, 0, 0, 0, 0, 3, 0, 0], [3, 5, 3, 1, 1, 5, 2, 2, 7, 1, 0, 5, 5, 9, 1, 1, 0, 1, 1, 3, 2, 8, 10, 2, 0]]]],["#1B2A6B", "#2343D7", "#088CF5", "#7711FC", "#E0559A", "#2BB673", "#F2A900", "#9AA0B4"]);
 var PAL=[['#088CF5','#2343D7'],['#2343D7','#7711FC'],['#4A86DB','#9CC9EF'],['#7711FC','#088CF5']];
-var IMG=["p0", "n_nexco", "n_gjbank", "p3y", "n_gugusz", "n_cloud", "p1z", "n_kbizz", "p2b", "n_jinmoz", "b_bioz", "n_jibangz", "e_myd88", "e_kmc", "n_cjwz", "p85c", "n_uzbz", "b_kukdoz", "p82c", "n_gnitsz", "p80c", "p79c", "p5b", "p4z", "p76c", "p6z", "p7z", "p8z", "p9z", "p10", "p11z", "p12", "p13z", "p14b", "p66c", "p16", "p64c", "n_arvrz", "p17z", "e_sgis_svc", "e_sgis_menu", "n_mesz", "n_litz", "p19z", "n_lwtlbsz", "n_kogasz", "b_kacz", "b_flowz", "p20z", "n_hanle", "n_gitsz", "p49c", "p48c", "p24z", "n_gcrmz", "p45c", "p23z", "p22z", "p21z", "n_ssangz", "n_exjz", "n_bsgd", "n_nyjbisz", "p25z", "p36c", "e_gio35", "p26z", "e_wc33", "n_brtz", "p27z", "b_nbisz", "e_3d60z", "b_smoneyz", "b_cowayz", "b_ph3dz", "e_son25", "e_boomz", "e_pcs1z", "b_fota", "b_smsz", "e_pcs2b", "b_pmp", "b_homez", "b_cmz", "b_mmcz", "d_phone", "c_iso_m", "b_wooferz", "d_2g_ui", "b_printerz", "d_dv_ui", "b_nexioz", "d_stb_sk", "d_stb_arion", "e_tcoin6", "d_auctionz", "d_sec_gui", "e_hanc3", "d_search", "e_java1"];function art(i){if(IMG[i])return '<img class="art" src="/assets/img/proj/'+IMG[i]+'.jpg" alt="" loading="lazy" style="object-fit:cover;object-position:center top">';var p=PAL[i%4],s='',k;for(k=0;k<6;k++){var x=(i*37+k*53)%150,y=(i*29+k*31)%96,rr=10+(i*7+k*11)%26;s+='<circle cx="'+x+'" cy="'+y+'" r="'+rr+'" fill="none" stroke="#fff" stroke-opacity=".55" stroke-width="1.2"/>'}
+var IMG=["p0", "n_nexco", "n_gjbank", "p3y", "n_gugusz", "n_cloud", "p1z", "n_kbizz", "p2b", "n_jinmoz", "b_bioz", "n_jibangz", "e_myd88", "e_kmc", "n_cjwz", "p85c", "n_uzbz", "b_kukdoz", "p82c", "n_gnitsz", "p80c", "p79c", "p5b", "p4z", "p76c", "p6z", "p7z", "p8z", "p9z", "p10", "p11z", "p12", "p13z", "p14b", "p66c", "p16", "p64c", "n_arvrz", "p17z", "e_sgis_svc", "e_sgis_menu", "n_mesz", "n_litz", "p19z", "n_lwtlbsz", "n_kogasz", "b_kacz", "b_flowz", "p20z", "n_hanle", "n_gitsz", "p49c", "p48c", "p24z", "n_gcrmz", "p45c", "p23z", "p22z", "p21z", "n_ssangz", "n_exjz", "n_bsgd", "n_nyjbisz", "p25z", "p36c", "e_gio35", "p26z", "e_wc33", "n_brtz", "p27z", "b_nbisz", "e_3d60z", "b_smoneyz", "b_cowayz", "b_ph3dz", "e_son25", "e_boomz", "e_pcs1z", "b_fota", "b_smsz", "e_pcs2b", "b_pmp", "b_homez", "b_cmz", "b_mmcz", "d_phone", "c_iso_m", "b_wooferz", "d_2g_ui", "b_printerz", "d_dv_ui", "b_nexioz", "d_stb_sk", "d_stb_arion", "e_tcoin6", "d_auctionz", "d_sec_gui", "e_hanc3", "d_search", "p1c"];function art(i){if(IMG[i])return '<img class="art" src="/assets/img/proj/'+IMG[i]+'.jpg" alt="" loading="lazy" style="object-fit:cover;object-position:center top">';var p=PAL[i%4],s='',k;for(k=0;k<6;k++){var x=(i*37+k*53)%150,y=(i*29+k*31)%96,rr=10+(i*7+k*11)%26;s+='<circle cx="'+x+'" cy="'+y+'" r="'+rr+'" fill="none" stroke="#fff" stroke-opacity=".55" stroke-width="1.2"/>'}
 for(k=0;k<4;k++){s+='<line x1="0" y1="'+(18+k*20)+'" x2="150" y2="'+(10+((i+k)*17)%80)+'" stroke="#fff" stroke-opacity=".3"/>'}
 return '<svg class="art" viewBox="0 0 150 96" aria-hidden="true"><defs><linearGradient id="g'+i+'" x1="0" y1="0" x2="1" y2="1"><stop offset="0" stop-color="'+p[0]+'"/><stop offset="1" stop-color="'+p[1]+'"/></linearGradient></defs><rect width="150" height="96" fill="url(#g'+i+')"/>'+s+'</svg>'}
 var HL=Array.prototype.slice.call(document.querySelectorAll('#ft .fc'));var mini=[];

diff --git a/zh/career.html b/zh/career.html
@@ -70,7 +70,7 @@ function natBox(t,tabs,sets,c){var b='<div class="igc" id="natb"><h3>'+t+'</h3><
 function lineC(t,n,d,c){var W=460,H=230,L=30,B=24,T=10,R=16,mx=0;d.forEach(function(s){s.forEach(function(v){if(v>mx)mx=v})});mx=Math.ceil(mx/20)*20;var X=function(i){return L+(W-L-R)*i/24},Y=function(v){return H-B-(H-B-T)*v/mx};var g='';for(var k=0;k<=4;k++){var v=mx*k/4;g+='<line x1="'+L+'" x2="'+(W-R)+'" y1="'+Y(v)+'" y2="'+Y(v)+'" stroke="#E6E8F0"/><text x="'+(L-4)+'" y="'+(Y(v)+3)+'" font-size="9" text-anchor="end" fill="#7A8099">'+v+'</text>'}for(var y=0;y<=24;y+=4)g+='<text x="'+X(y)+'" y="'+(H-8)+'" font-size="9" text-anchor="middle" fill="#7A8099">'+(2000+y)+'</text>';d.forEach(function(s,j){g+='<polyline fill="none" stroke="'+c[j]+'" stroke-width="2" points="'+s.map(function(v,i){return X(i)+','+Y(v)}).join(' ')+'"/>'});var lg=n.map(function(x,j){return '<span style="display:inline-flex;align-items:center;gap:4px;margin:0 10px 4px 0;font-size:12px"><i style="width:12px;height:3px;background:'+c[j]+';display:inline-block"></i>'+x+'</span>'}).join('');return '<div class="igc"><h3>'+t+'</h3><div>'+lg+'</div><svg viewBox="0 0 '+W+' '+H+'" style="width:100%;height:auto;display:block" role="img" aria-label="'+t+'">'+g+'</svg></div>'}
 document.getElementById('ig').innerHTML=bars(T.role,T.r,(function(){var h=function(a){return RO.filter(function(x){return a.some(function(k){return x.indexOf(RL[k])>=0})}).length};return [h([0,1]),h([6,7]),r[2],h([2,3]),h([4,5]),M.filter(function(m){return m[2]}).length+r[3]]})())+bars(T.cli,T.c,c)+bars(T.reg,T.g,g)+bars(T.per,yl,yc)+bars("2000年以来执行·参与项目及任务2,029个 · 业务文档50,698份 · 资料629GB",["Neighbor System(2008–2015)", "AWA·AKT·Elsol·SeAH·SGA·ANJ等(2015–2021)", "东海综合技术公社(2019–2020)", "ITeyes(2022)", "KCC信息通信(2020–2021)", "Korea Firstec(2023–2024)","Next Core Technology(2023)", "瑞源集团(2024)", "2000–2007(依据履历)"],[451, 200, 162, 117, 103, 62, 35, 4, 26])+lineC("按年度项目·任务趋势(2000–2024,按发包对象)",["政府", "公共机构", "地方政府", "民间", "海外"],[[0, 0, 0, 0, 0, 0, 0, 0, 13, 0, 0, 0, 0, 1, 1, 3, 0, 0, 3, 33, 7, 2, 5, 2, 60], [0, 0, 0, 0, 0, 0, 0, 0, 18, 3, 2, 12, 5, 2, 55, 1, 0, 0, 104, 55, 40, 11, 78, 34, 1], [0, 0, 0, 0, 0, 0, 0, 0, 29, 4, 7, 11, 6, 2, 0, 3, 0, 0, 41, 15, 49, 17, 8, 1, 0], [4, 5, 3, 1, 2, 5, 2, 2, 88, 30, 16, 74, 17, 1, 15, 40, 4, 1, 1, 12, 35, 5, 26, 0, 3], [0, 1, 0, 0, 0, 1, 0, 0, 0, 0, 0, 0, 0, 4, 7, 4, 0, 0, 0, 6, 1, 0, 0, 0, 0]],["#1B2A6B", "#2343D7", "#088CF5", "#7711FC", "#E0559A"])+natBox("按性质年度趋势(2000–2024)",["对象", "领域", "角色"],[[["民营", "公共", "海外"], [[4, 6, 5, 5, 3, 7, 5, 2, 5, 0, 0, 1, 7, 3, 1, 2, 3, 0, 0, 0, 0, 2, 2, 0, 0], [0, 0, 0, 0, 0, 0, 0, 0, 2, 3, 3, 6, 2, 7, 4, 1, 1, 0, 2, 4, 6, 5, 11, 1, 1], [1, 0, 0, 1, 1, 1, 1, 0, 0, 0, 0, 0, 2, 2, 2, 1, 0, 0, 0, 1, 1, 1, 0, 0, 0]]], [["交通·ITS", "医疗", "大数据", "AI", "智慧城市", "MyData", "金融"], [[0, 0, 0, 0, 0, 0, 0, 0, 1, 3, 3, 6, 3, 3, 2, 0, 0, 0, 0, 3, 4, 3, 0, 0, 0], [0, 0, 0, 0, 0, 0, 0, 0, 0, 0, 0, 0, 1, 0, 0, 0, 0, 0, 0, 0, 0, 2, 9, 0, 0], [0, 0, 0, 0, 0, 0, 0, 0, 0, 0, 0, 0, 1, 1, 2, 1, 0, 0, 0, 1, 2, 1, 3, 0, 0], [0, 0, 0, 0, 0, 0, 0, 0, 0, 0, 0, 0, 0, 0, 0, 0, 0, 0, 1, 2, 2, 1, 2, 0, 1], [0, 0, 0, 0, 0, 0, 0, 0, 0, 0, 0, 0, 1, 1, 1, 1, 1, 0, 0, 0, 1, 1, 0, 0, 0], [0, 0, 0, 0, 0, 0, 0, 0, 0, 0, 0, 0, 0, 0, 0, 0, 0, 0, 0, 0, 0, 0, 3, 0, 0], [0, 0, 0, 0, 0, 0, 0, 0, 1, 0, 0, 0, 0, 0, 0, 0, 0, 1, 0, 0, 0, 1, 0, 1, 0]]], [["业务统筹", "销售", "PM·PMO", "PL", "开发/执行", "提案·策划"], [[0, 0, 0, 0, 0, 0, 0, 0, 0, 0, 0, 1, 2, 1, 0, 0, 0, 0, 2, 4, 0, 0, 0, 0, 0], [0, 0, 0, 0, 0, 0, 0, 0, 0, 0, 0, 1, 4, 1, 0, 0, 0, 0, 1, 2, 0, 0, 0, 0, 0], [3, 3, 1, 1, 0, 1, 0, 0, 0, 1, 0, 1, 5, 2, 1, 1, 1, 0, 2, 4, 1, 1, 10, 0, 1], [0, 2, 2, 0, 1, 5, 2, 2, 4, 0, 2, 0, 1, 4, 2, 0, 1, 1, 0, 0, 0, 6, 3, 0, 0], [0, 0, 0, 0, 0, 0, 0, 0, 0, 1, 1, 0, 0, 2, 3, 0, 2, 1, 0, 0, 0, 0, 3, 0, 0], [3, 5, 3, 1, 1, 5, 2, 2, 7, 1, 0, 5, 5, 9, 1, 1, 0, 1, 1, 3, 2, 8, 10, 2, 0]]]],["#1B2A6B", "#2343D7", "#088CF5", "#7711FC", "#E0559A", "#2BB673", "#F2A900", "#9AA0B4"]);
 var PAL=[['#088CF5','#2343D7'],['#2343D7','#7711FC'],['#4A86DB','#9CC9EF'],['#7711FC','#088CF5']];
-var IMG=["p0", "n_nexco", "n_gjbank", "p3y", "n_gugusz", "n_cloud", "p1z", "n_kbizz", "p2b", "n_jinmoz", "b_bioz", "n_jibangz", "e_myd88", "e_kmc", "n_cjwz", "p85c", "n_uzbz", "b_kukdoz", "p82c", "n_gnitsz", "p80c", "p79c", "p5b", "p4z", "p76c", "p6z", "p7z", "p8z", "p9z", "p10", "p11z", "p12", "p13z", "p14b", "p66c", "p16", "p64c", "n_arvrz", "p17z", "e_sgis_svc", "e_sgis_menu", "n_mesz", "n_litz", "p19z", "n_lwtlbsz", "n_kogasz", "b_kacz", "b_flowz", "p20z", "n_hanle", "n_gitsz", "p49c", "p48c", "p24z", "n_gcrmz", "p45c", "p23z", "p22z", "p21z", "n_ssangz", "n_exjz", "n_bsgd", "n_nyjbisz", "p25z", "p36c", "e_gio35", "p26z", "e_wc33", "n_brtz", "p27z", "b_nbisz", "e_3d60z", "b_smoneyz", "b_cowayz", "b_ph3dz", "e_son25", "e_boomz", "e_pcs1z", "b_fota", "b_smsz", "e_pcs2b", "b_pmp", "b_homez", "b_cmz", "b_mmcz", "d_phone", "c_iso_m", "b_wooferz", "d_2g_ui", "b_printerz", "d_dv_ui", "b_nexioz", "d_stb_sk", "d_stb_arion", "e_tcoin6", "d_auctionz", "d_sec_gui", "e_hanc3", "d_search", "e_java1"];function art(i){if(IMG[i])return '<img class="art" src="/assets/img/proj/'+IMG[i]+'.jpg" alt="" loading="lazy" style="object-fit:cover;object-position:center top">';var p=PAL[i%4],s='',k;for(k=0;k<6;k++){var x=(i*37+k*53)%150,y=(i*29+k*31)%96,rr=10+(i*7+k*11)%26;s+='<circle cx="'+x+'" cy="'+y+'" r="'+rr+'" fill="none" stroke="#fff" stroke-opacity=".55" stroke-width="1.2"/>'}
+var IMG=["p0", "n_nexco", "n_gjbank", "p3y", "n_gugusz", "n_cloud", "p1z", "n_kbizz", "p2b", "n_jinmoz", "b_bioz", "n_jibangz", "e_myd88", "e_kmc", "n_cjwz", "p85c", "n_uzbz", "b_kukdoz", "p82c", "n_gnitsz", "p80c", "p79c", "p5b", "p4z", "p76c", "p6z", "p7z", "p8z", "p9z", "p10", "p11z", "p12", "p13z", "p14b", "p66c", "p16", "p64c", "n_arvrz", "p17z", "e_sgis_svc", "e_sgis_menu", "n_mesz", "n_litz", "p19z", "n_lwtlbsz", "n_kogasz", "b_kacz", "b_flowz", "p20z", "n_hanle", "n_gitsz", "p49c", "p48c", "p24z", "n_gcrmz", "p45c", "p23z", "p22z", "p21z", "n_ssangz", "n_exjz", "n_bsgd", "n_nyjbisz", "p25z", "p36c", "e_gio35", "p26z", "e_wc33", "n_brtz", "p27z", "b_nbisz", "e_3d60z", "b_smoneyz", "b_cowayz", "b_ph3dz", "e_son25", "e_boomz", "e_pcs1z", "b_fota", "b_smsz", "e_pcs2b", "b_pmp", "b_homez", "b_cmz", "b_mmcz", "d_phone", "c_iso_m", "b_wooferz", "d_2g_ui", "b_printerz", "d_dv_ui", "b_nexioz", "d_stb_sk", "d_stb_arion", "e_tcoin6", "d_auctionz", "d_sec_gui", "e_hanc3", "d_search", "p1c"];function art(i){if(IMG[i])return '<img class="art" src="/assets/img/proj/'+IMG[i]+'.jpg" alt="" loading="lazy" style="object-fit:cover;object-position:center top">';var p=PAL[i%4],s='',k;for(k=0;k<6;k++){var x=(i*37+k*53)%150,y=(i*29+k*31)%96,rr=10+(i*7+k*11)%26;s+='<circle cx="'+x+'" cy="'+y+'" r="'+rr+'" fill="none" stroke="#fff" stroke-opacity=".55" stroke-width="1.2"/>'}
 for(k=0;k<4;k++){s+='<line x1="0" y1="'+(18+k*20)+'" x2="150" y2="'+(10+((i+k)*17)%80)+'" stroke="#fff" stroke-opacity=".3"/>'}
 return '<svg class="art" viewBox="0 0 150 96" aria-hidden="true"><defs><linearGradient id="g'+i+'" x1="0" y1="0" x2="1" y2="1"><stop offset="0" stop-color="'+p[0]+'"/><stop offset="1" stop-color="'+p[1]+'"/></linearGradient></defs><rect width="150" height="96" fill="url(#g'+i+')"/>'+s+'</svg>'}
 var HL=Array.prototype.slice.call(document.querySelectorAll('#ft .fc'));var mini=[];
